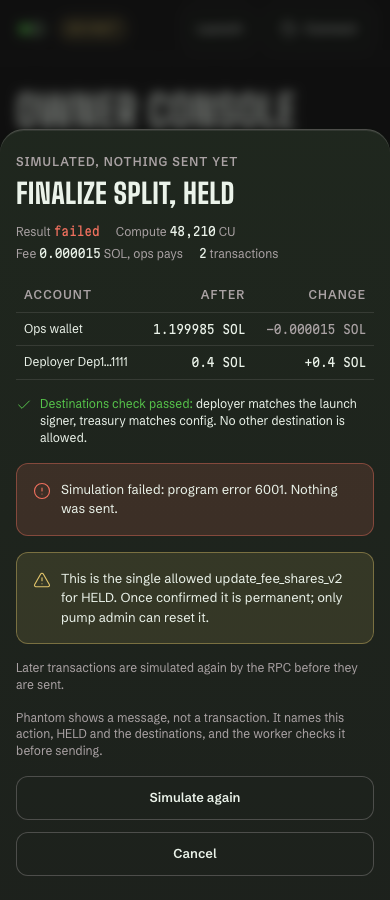
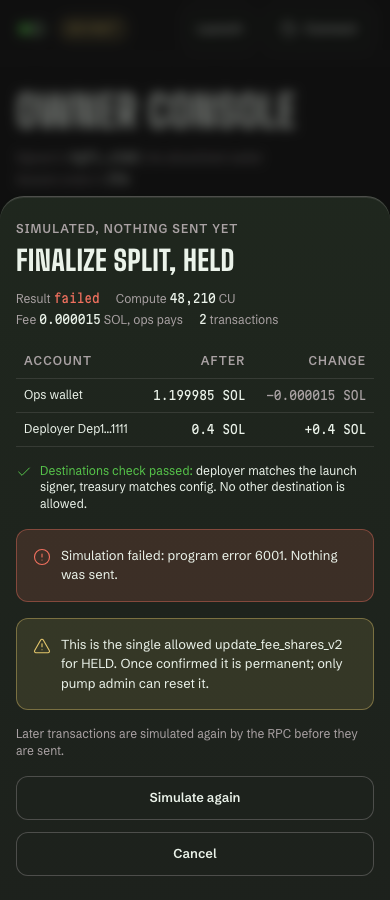
fix(06-review): WR-B-05 show the exact signed intent text in the money dialog

Changed region(s): [[0.0308, 0.1556, 0.9846, 0.84]]

diff --git a/apps/web/components/admin-sim.tsx b/apps/web/components/admin-sim.tsx
@@ -113,11 +113,23 @@ function SimBody({ s, action, symbol }: { s: SimState; action: AdminTxAction; sy
       {s.note && <Callout variant={s.note.variant}>{s.note.text}</Callout>}
       {s.sim && permanent && <Callout variant="warn">{fill(permanent, symbol)}</Callout>}
       {note && <p className="text-xs text-muted-foreground">{note}</p>}
-      <p className="text-xs text-muted-foreground">
-        Phantom shows a message, not a transaction. It names this action, {symbol} and the destinations, and
-        the worker checks it before sending.
-      </p>
+      {s.sim?.intent && <Message text={s.sim.intent.message} />}
     </>
+  );
+}
+
+// The exact bytes Phantom will show (WR-B-05), so the owner can check the popup against this dialog.
+function Message({ text }: { text: string }) {
+  return (
+    <div className="grid gap-2">
+      <p className="text-xs text-muted-foreground">
+        Phantom shows exactly this message, not a transaction. Check that the action, mint and destination
+        addresses match before you sign. The worker checks it again before sending.
+      </p>
+      <pre className="num rounded-md border border-line p-3 text-xs break-all whitespace-pre-wrap">
+        {text}
+      </pre>
+    </div>
   );
 }
 

diff --git a/apps/web/e2e/admin-sim.e2e.ts b/apps/web/e2e/admin-sim.e2e.ts
@@ -71,6 +71,7 @@ test.describe("admin-sim", () => {
     await expect(d.getByText("Compute")).toContainText("48,210");
     await expect(d.getByRole("row", { name: /Deployer Dep1…1111/ })).toContainText("+0.4 SOL");
     await expect(d.getByText("Destinations check passed:")).toBeVisible();
+    await expect(d.locator("pre")).toHaveText(MESSAGE); // the bytes Phantom will show (WR-B-05)
     await expect(
       d.getByText("This is the single allowed update_fee_shares_v2 for HELD.", { exact: false }),
     ).toBeVisible();
